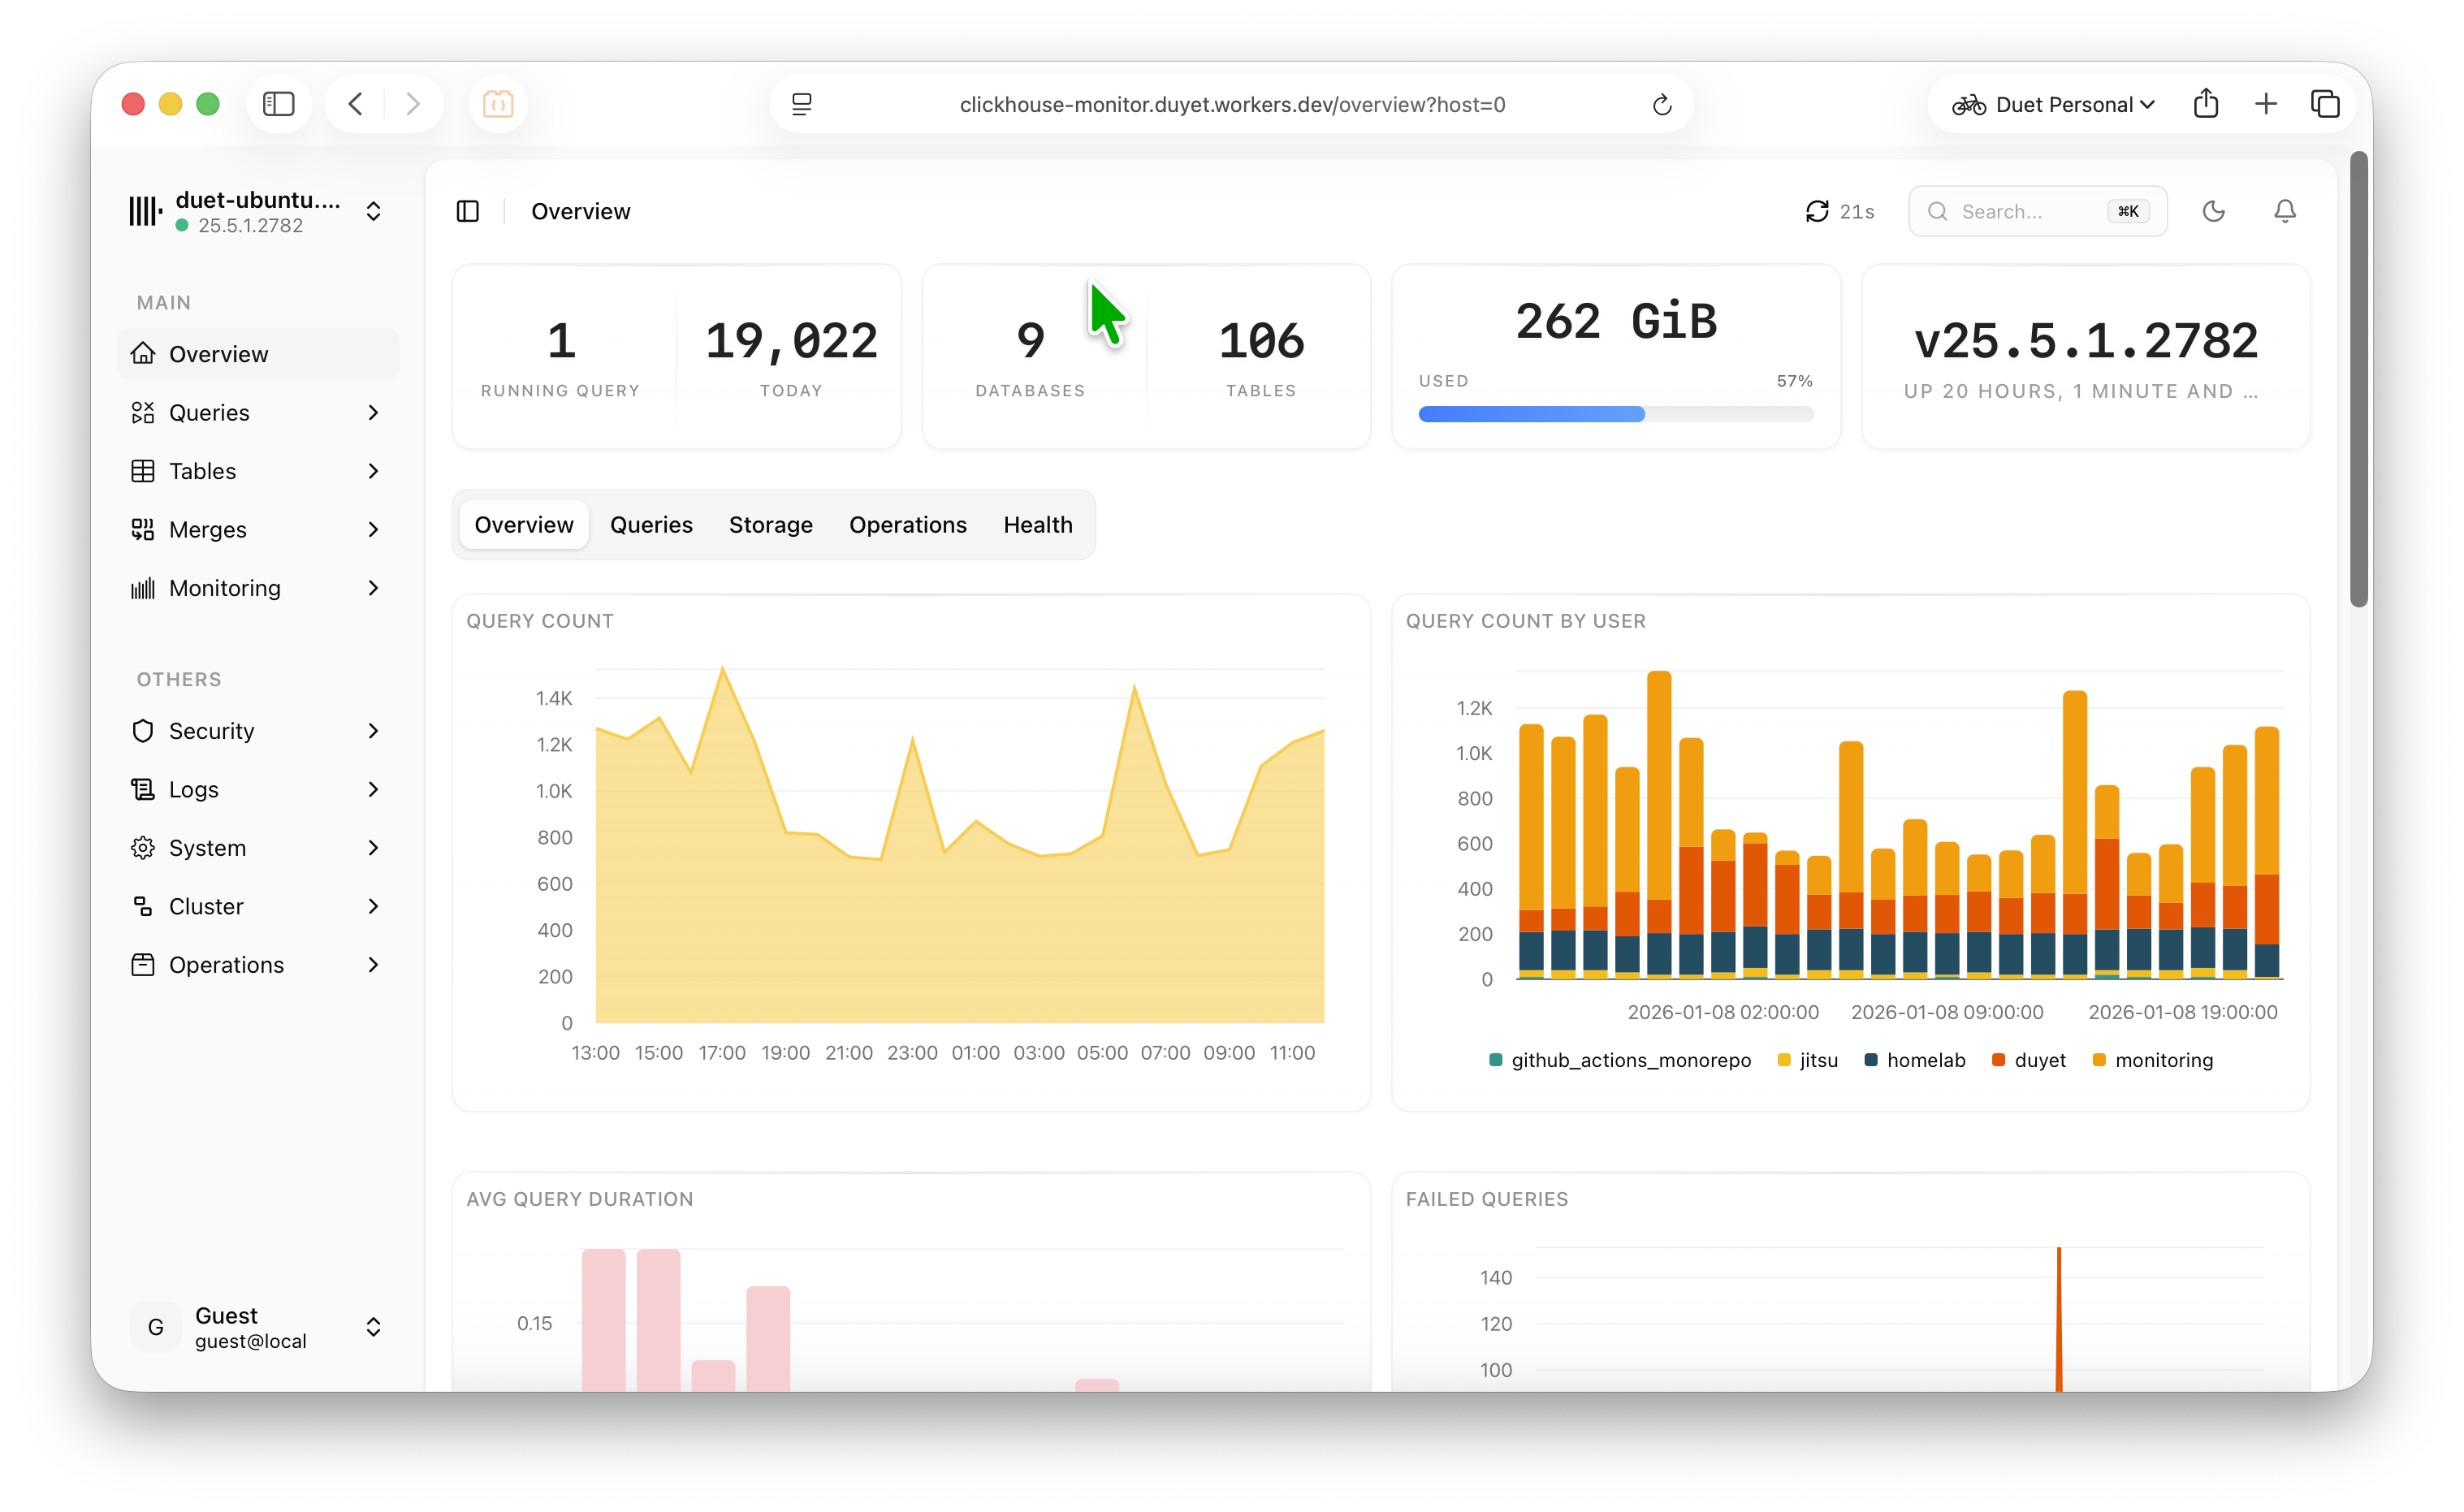
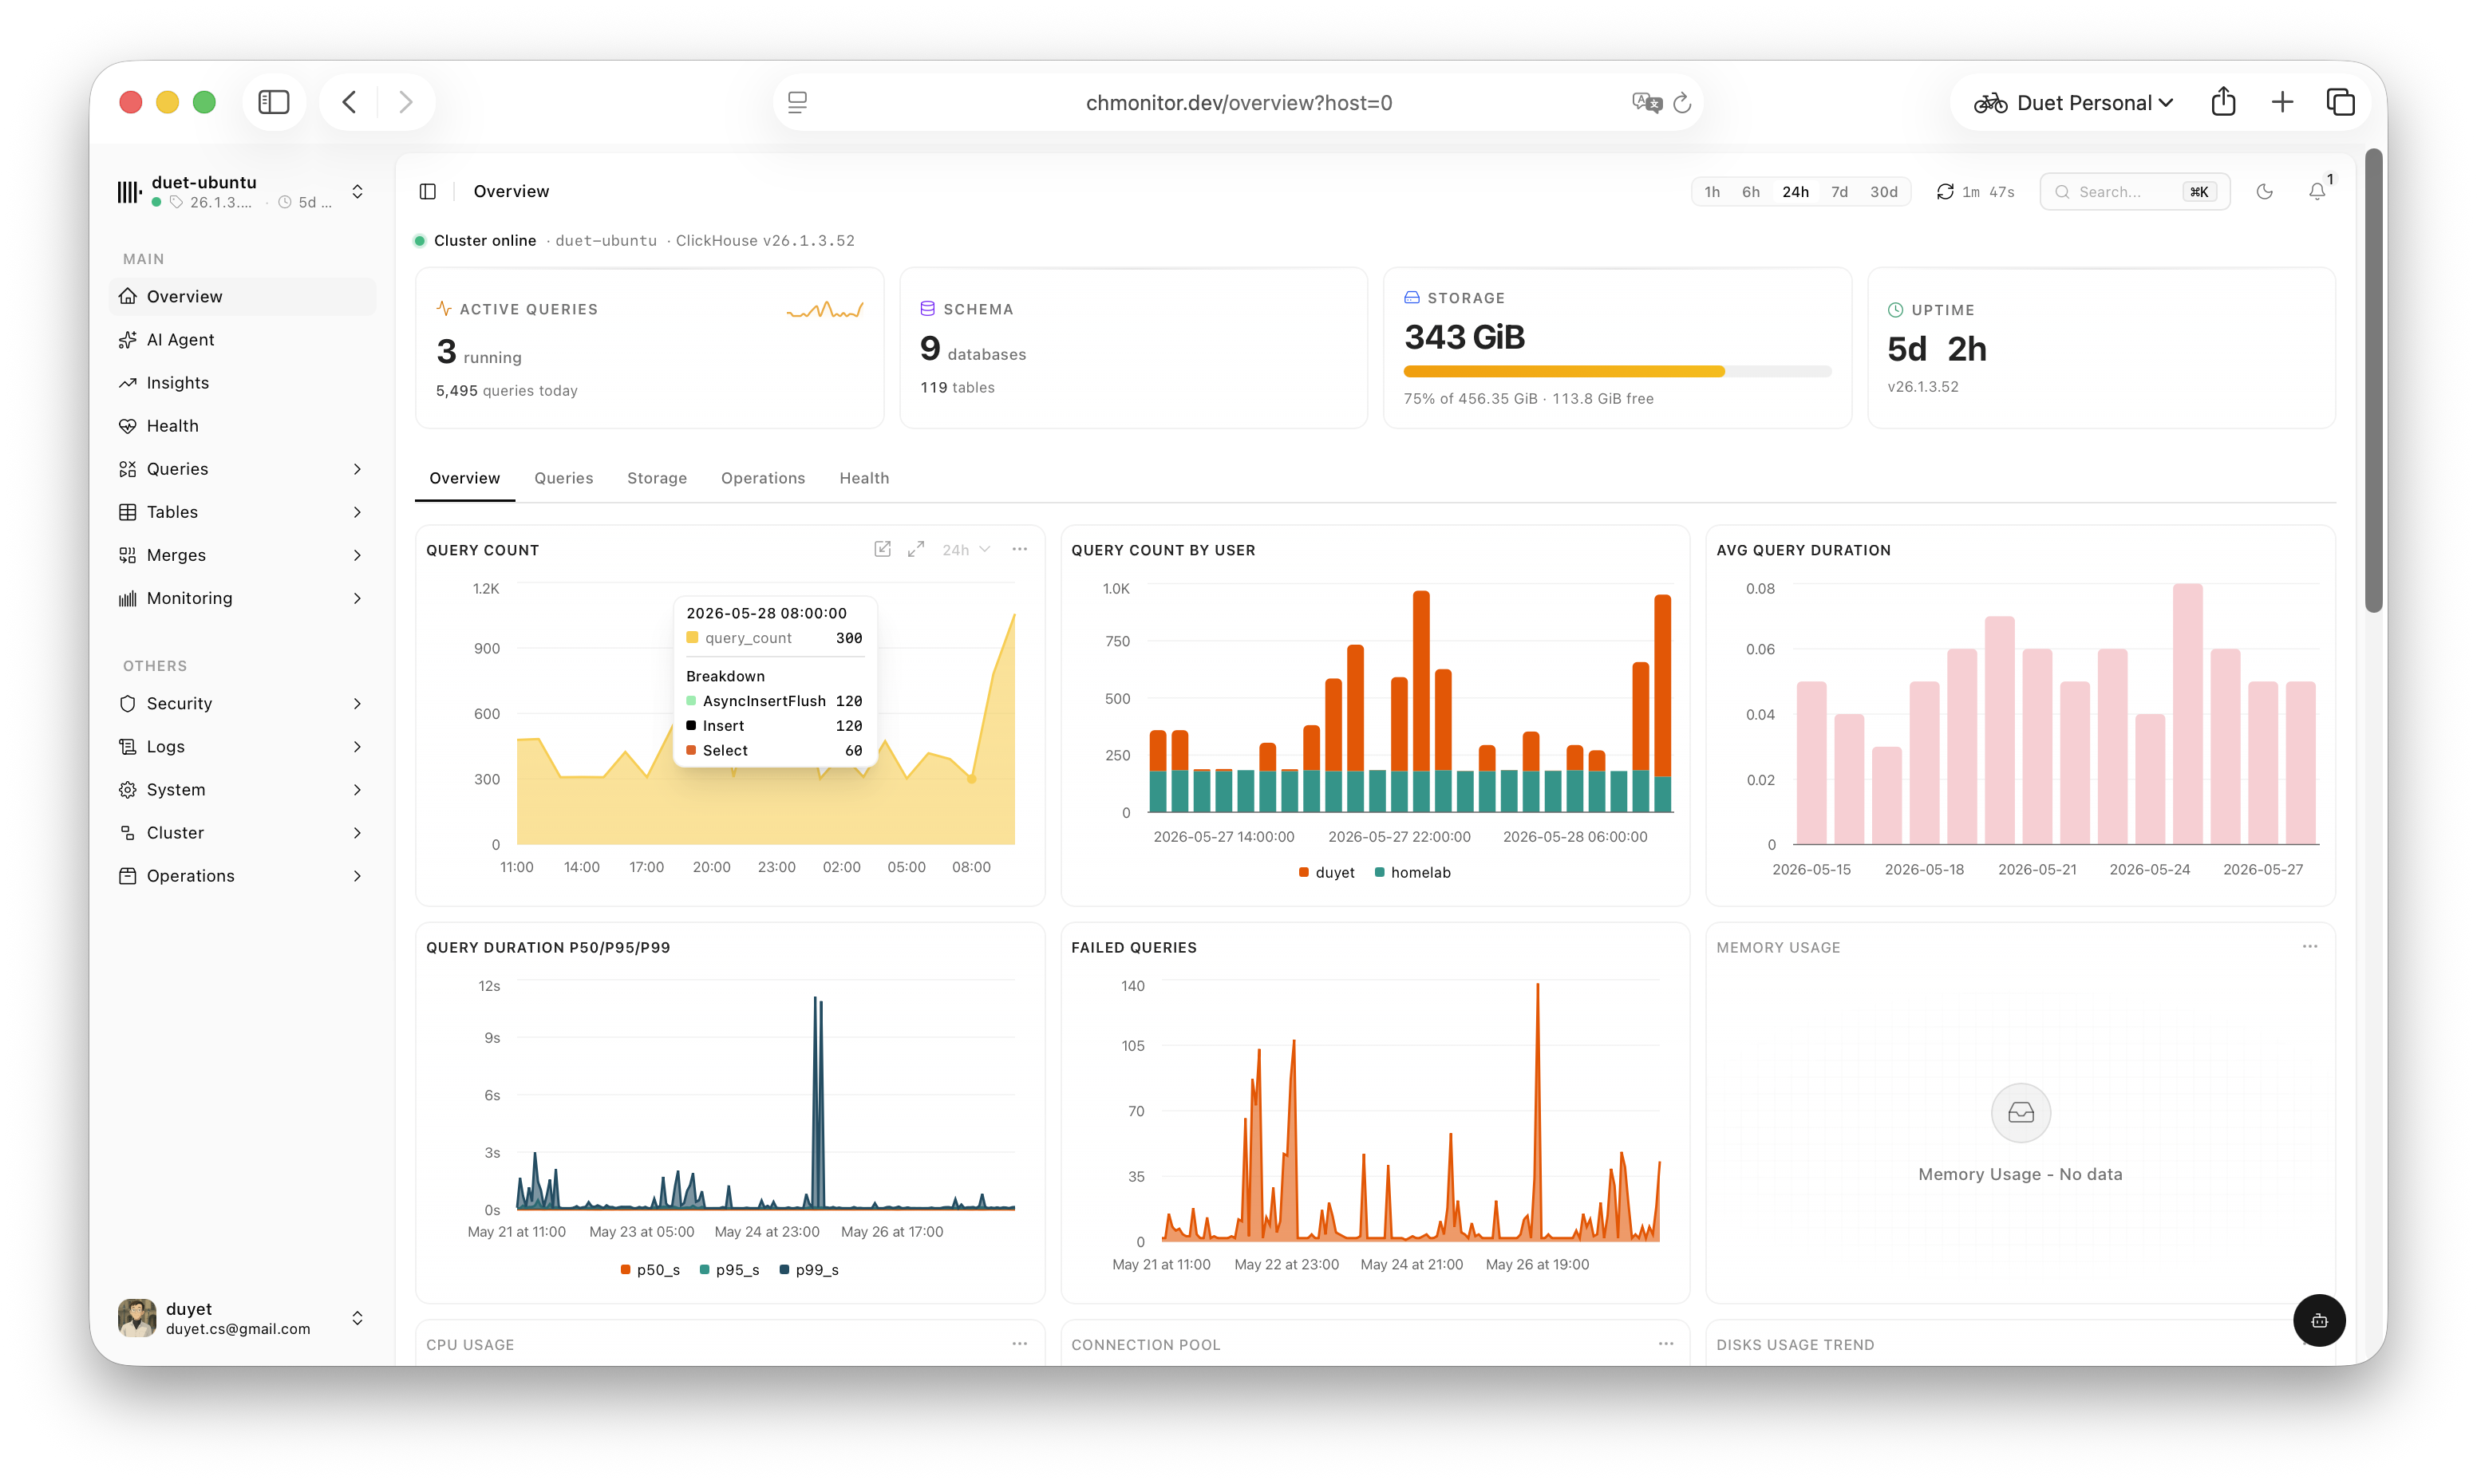
chore: add screenshots (#1206)
* chore: add screenshots

* Update README.md

---------

Pull request: chore: add screenshots
<!-- This is an auto-generated comment: release notes by coderabbit.ai -->

## Summary by CodeRabbit

* **Documentation**
  * Repositioned the "Live" link section to a more prominent location near the top of the documentation
  * Removed the outdated "Demo" subsection and all associated reference links
  * Enhanced the screenshots gallery by adding four new screenshots to provide more comprehensive visual documentation

<!-- review_stack_entry_start -->

[![Review Change Stack](https://storage.googleapis.com/coderabbit_public_assets/review-stack-in-coderabbit-ui.svg)](https://app.coderabbit.ai/change-stack/duyet/clickhouse-monitoring/pull/1206?utm_source=github_walkthrough&utm_medium=github&utm_campaign=change_stack)

<!-- review_stack_entry_end -->

<!-- end of auto-generated comment: release notes by coderabbit.ai -->

diff --git a/README.md b/README.md
@@ -5,6 +5,10 @@
 
 A modern Next.js 15 dashboard that provides real-time insights into ClickHouse clusters through system tables. Features static site generation with client-side data fetching for optimal performance and CDN caching.
 
+<p align="center">
+  <strong>Live:</strong> <a href="https://chmonitor.dev/?ref=github">chmonitor.dev</a> | <a href="#screenshots">Screenshots</a>
+</p>
+
 **Features:**
 
 - **Query Monitoring**: Running queries, query history, resources (memory, parts read, file_open), expensive queries, slow queries, failed queries, query profiler
@@ -20,13 +24,6 @@ A modern Next.js 15 dashboard that provides real-time insights into ClickHouse c
 - **MCP Server**: Model Context Protocol endpoint for AI tool integration (Claude, Cursor, etc.)
 - **Rust CLI**: Standalone terminal and TUI monitoring tool
 
-## Demo
-
-_The ClickHouse server running on my homelab so can be slow sometimes_:
-
-- [chmonitor.dev](https://chmonitor.dev) (Cloudflare Workers)
-- [clickhouse-monitoring.duyet.net](https://clickhouse-monitoring.duyet.net)
-- [clickhouse-monitor.duyet.workers.dev](https://clickhouse-monitor.duyet.workers.dev) (Cloudflare Workers legacy)
 
 ## Deployment
 
@@ -178,6 +175,10 @@ For repeatable Docker deploys, prefer the versioned image tag from the release p
 ![](.github/screenshots/screenshot_8.png)
 ![](.github/screenshots/screenshot_9.png)
 ![](.github/screenshots/screenshot_10.png)
+![](.github/screenshots/screenshot_11.png)
+![](.github/screenshots/screenshot_12.png)
+![](.github/screenshots/screenshot_13.png)
+![](.github/screenshots/screenshot_14.png)
 
 ## Feedback and Contributions
 